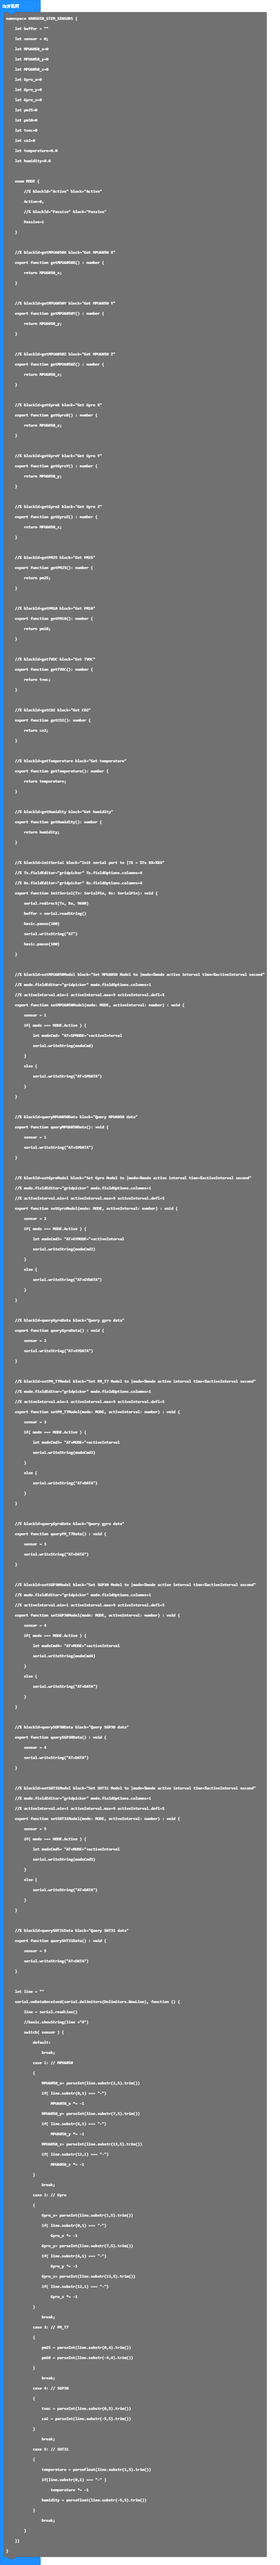
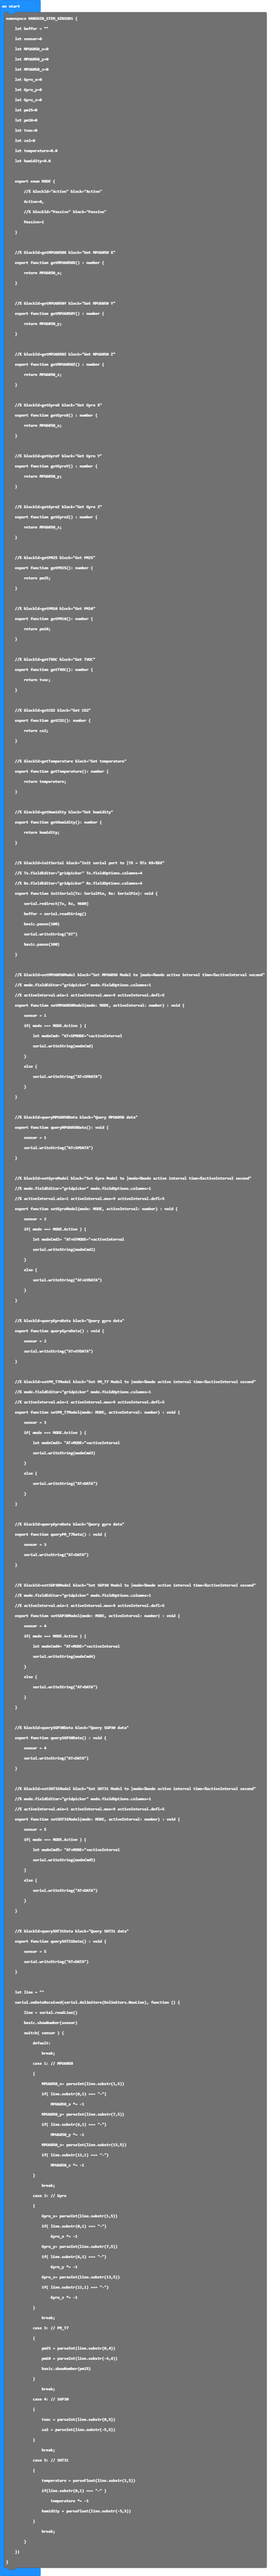
Update main.blocks, main.ts, test.ts

diff --git a/main.ts b/main.ts
@@ -1,6 +1,6 @@
 namespace HANSHIN_STEM_SENSORS {
     let buffer = ""
-    let sensor = 0;
+    let sensor=0
     let MPU6050_x=0
     let MPU6050_y=0
     let MPU6050_z=0
@@ -195,54 +195,54 @@ namespace HANSHIN_STEM_SENSORS {
     let line = ""
     serial.onDataReceived(serial.delimiters(Delimiters.NewLine), function () {
         line = serial.readLine()
-        //basic.showString(line +"#")
         switch( sensor ) {
             default:
                 break;
             case 1: // MPU6050
             {
-                MPU6050_x= parseInt(line.substr(1,5).trim())
+                MPU6050_x= parseInt(line.substr(1,5))
                 if( line.substr(0,1) === "-")
                     MPU6050_x *= -1
-                MPU6050_y= parseInt(line.substr(7,5).trim())
+                MPU6050_y= parseInt(line.substr(7,5))
                 if( line.substr(6,1) === "-")
                     MPU6050_y *= -1
-                MPU6050_z= parseInt(line.substr(13,5).trim())
+                MPU6050_z= parseInt(line.substr(13,5))
                 if( line.substr(12,1) === "-")
                     MPU6050_z *= -1
             }
                 break;
             case 2: // Gyro
             {
-                Gyro_x= parseInt(line.substr(1,5).trim())
+                Gyro_x= parseInt(line.substr(1,5))
                 if( line.substr(0,1) === "-")
                     Gyro_x *= -1
-                Gyro_y= parseInt(line.substr(7,5).trim())
+                Gyro_y= parseInt(line.substr(7,5))
                 if( line.substr(6,1) === "-")
                     Gyro_y *= -1
-                Gyro_z= parseInt(line.substr(13,5).trim())
+                Gyro_z= parseInt(line.substr(13,5))
                 if( line.substr(12,1) === "-")
                     Gyro_z *= -1
             }
                 break;
             case 3: // PM_T7
             {
-                pm25 = parseInt(line.substr(0,4).trim())
-                pm10 = parseInt(line.substr(-4,4).trim())
+                pm25 = parseInt(line.substr(0,4))
+                pm10 = parseInt(line.substr(-4,4))
+                basic.showNumber(pm25)
             }
                 break;
-            case 4: // SGP30
+            case 4: // SGP30 
             {
-                tvoc = parseInt(line.substr(0,5).trim())
-                co2 = parseInt(line.substr(-5,5).trim())
+                tvoc = parseInt(line.substr(0,5))
+                co2 = parseInt(line.substr(-5,5))
             }
                 break;
             case 5: // SHT31 
             {
-                temperature = parseFloat(line.substr(1,5).trim())
+                temperature = parseFloat(line.substr(1,5))
                 if(line.substr(0,1) === "-" )
                     temperature *= -1
-                humidity = parseFloat(line.substr(-5,5).trim())
+                humidity = parseFloat(line.substr(-5,5))
             }
                 break;
         }
